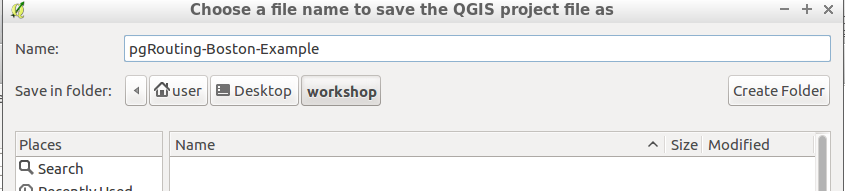
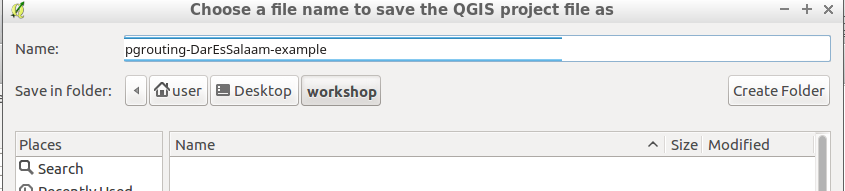
workshp preview

Changed region(s): [[0.1231, 0.2356, 0.6769, 0.3403], [0.1538, 0.1832, 0.6769, 0.2094]]

diff --git a/wrkshp/searchindex.js b/wrkshp/searchindex.js
@@ -1,1 +1,1 @@
[2 lines of base64/hex data omitted]

diff --git a/wrkshp/chapters/topology.html b/wrkshp/chapters/topology.html
@@ -230,7 +230,7 @@ attributes needed the <cite>Routing Network Topology</cite>.</p>
 <div class="section" id="load-network-data">
 <h2><a class="toc-backref" href="#id2">12.1. Load network data</a><a class="headerlink" href="#load-network-data" title="Permalink to this headline">¶</a></h2>
 <p>At first we will load OpenStreetMap sample data with osm2pgsql.</p>
-<div class="highlight-bash"><div class="highlight"><pre><span></span><span class="nv">CITY</span><span class="o">=</span><span class="s2">&quot;Boston_MA&quot;</span>
+<div class="highlight-bash"><div class="highlight"><pre><span></span><span class="nv">CITY</span><span class="o">=</span><span class="s2">&quot;DS_TS&quot;</span>
 <span class="nb">cd</span> ~/Desktop/workshop
 cp ~/data/osm/<span class="nv">$CITY</span>.osm.bz2 .
 
@@ -369,7 +369,7 @@ functions help to detect and fix some of the topological errors in the data.</p>
     </p>
     <p>
         &copy; Copyright 2010-2017 Daniel Kastl, Vicky Vergara.<br/>
-      Last updated on Sep 25, 2018.<br/>
+      Last updated on Sep 26, 2018.<br/>
     </p>
   </div>
 </footer>

diff --git a/wrkshp/chapters/prepare_data.html b/wrkshp/chapters/prepare_data.html
@@ -365,7 +365,7 @@ Additional information about <code class="docutils literal"><span class="pre">os
 <p>For this step:</p>
 <ul class="simple">
 <li>the osm2pgrouting default <code class="docutils literal"><span class="pre">mapconfig.xml</span></code> configuration file is used</li>
-<li>and the <code class="docutils literal"><span class="pre">~/Desktop/workshop/Boston_MA.osm</span></code> data.</li>
+<li>and the <code class="docutils literal"><span class="pre">~/Desktop/workshop/DS_TS.osm</span></code> data.</li>
 <li>with the <code class="docutils literal"><span class="pre">city_routing</span></code> database</li>
 </ul>
 <p>From a terminal window <code class="code docutils literal"><span class="pre">ctrl-alt-t</span></code>.</p>
@@ -488,7 +488,7 @@ osm2pgrouting <span class="se">\</span>
     </p>
     <p>
         &copy; Copyright 2010-2017 Daniel Kastl, Vicky Vergara.<br/>
-      Last updated on Sep 25, 2018.<br/>
+      Last updated on Sep 26, 2018.<br/>
     </p>
   </div>
 </footer>

diff --git a/wrkshp/chapters/shortest_path.html b/wrkshp/chapters/shortest_path.html
@@ -270,8 +270,8 @@ list of nodes or edges.</li>
 <p class="rubric">Identifiers for the Queries</p>
 <p>The assignment of the vertices identifiers on the source and target columns may
 be different, the following exercises will use the results of this query.
-For the workshop, some locations of the FOSS4G Boston event are going to be used.
-These locations are within this area <a class="reference external" href="http://www.openstreetmap.org/#map=14/42.3526/-71.0502">http://www.openstreetmap.org/#map=14/42.3526/-71.0502</a></p>
+For the workshop, some locations near of the FOSS4G Dar Es Salaam event are going to be used.
+These locations are within this area <a class="reference external" href="http://www.openstreetmap.org/#map=16/-6.8139/39.2976">http://www.openstreetmap.org/#map=16/-6.8139/39.2976</a></p>
 <div class="admonition note">
 <p class="first admonition-title">Note</p>
 <p>Connect to the database with if not connected:</p>

diff --git a/wrkshp/chapters/installation.html b/wrkshp/chapters/installation.html
@@ -287,7 +287,7 @@ According to your distribution, replace ‘&lt;mydist&gt;’ with ‘artful’, 
     </p>
     <p>
         &copy; Copyright 2010-2017 Daniel Kastl, Vicky Vergara.<br/>
-      Last updated on Sep 25, 2018.<br/>
+      Last updated on Sep 26, 2018.<br/>
     </p>
   </div>
 </footer>

diff --git a/wrkshp/chapters/introduction.html b/wrkshp/chapters/introduction.html
@@ -265,7 +265,7 @@ Mexico. She’s the core developer of pgRouting project and GSoC Mentor. OSGeo C
     </p>
     <p>
         &copy; Copyright 2010-2017 Daniel Kastl, Vicky Vergara.<br/>
-      Last updated on Sep 25, 2018.<br/>
+      Last updated on Sep 26, 2018.<br/>
     </p>
   </div>
 </footer>

diff --git a/wrkshp/chapters/additional_installation.html b/wrkshp/chapters/additional_installation.html
@@ -258,7 +258,7 @@ host    all             all             ::1/128                 trust
     </p>
     <p>
         &copy; Copyright 2010-2017 Daniel Kastl, Vicky Vergara.<br/>
-      Last updated on Sep 25, 2018.<br/>
+      Last updated on Sep 26, 2018.<br/>
     </p>
   </div>
 </footer>

diff --git a/wrkshp/chapters/ol3_client.html b/wrkshp/chapters/ol3_client.html
@@ -554,7 +554,7 @@ webserver, such as Apache or Nginx for example:</p>
     </p>
     <p>
         &copy; Copyright 2010-2017 Daniel Kastl, Vicky Vergara.<br/>
-      Last updated on Sep 25, 2018.<br/>
+      Last updated on Sep 26, 2018.<br/>
     </p>
   </div>
 </footer>

diff --git a/wrkshp/chapters/about.html b/wrkshp/chapters/about.html
@@ -312,7 +312,7 @@ certain properties.</li>
     </p>
     <p>
         &copy; Copyright 2010-2017 Daniel Kastl, Vicky Vergara.<br/>
-      Last updated on Sep 25, 2018.<br/>
+      Last updated on Sep 26, 2018.<br/>
     </p>
   </div>
 </footer>

diff --git a/wrkshp/chapters/geoserver.html b/wrkshp/chapters/geoserver.html
@@ -338,7 +338,7 @@ to create the layer.</p>
     </p>
     <p>
         &copy; Copyright 2010-2017 Daniel Kastl, Vicky Vergara.<br/>
-      Last updated on Sep 25, 2018.<br/>
+      Last updated on Sep 26, 2018.<br/>
     </p>
   </div>
 </footer>

diff --git a/wrkshp/chapters/osm2pgrouting.html b/wrkshp/chapters/osm2pgrouting.html
@@ -353,7 +353,7 @@ in this workshop.</li>
     </p>
     <p>
         &copy; Copyright 2010-2017 Daniel Kastl, Vicky Vergara.<br/>
-      Last updated on Sep 25, 2018.<br/>
+      Last updated on Sep 26, 2018.<br/>
     </p>
   </div>
 </footer>
